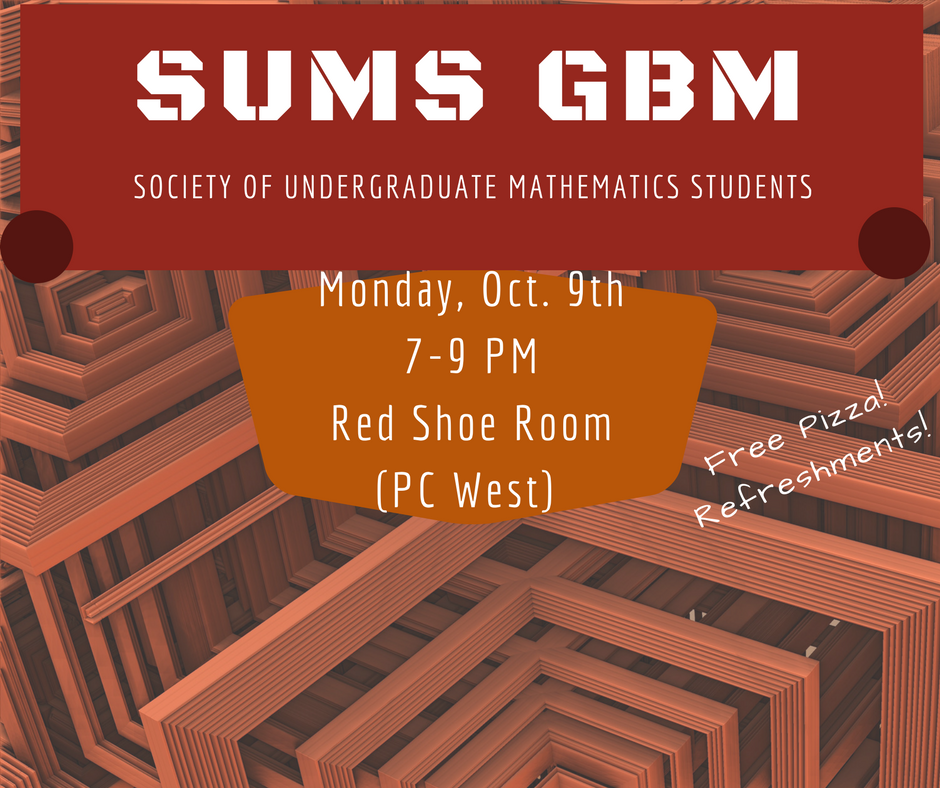
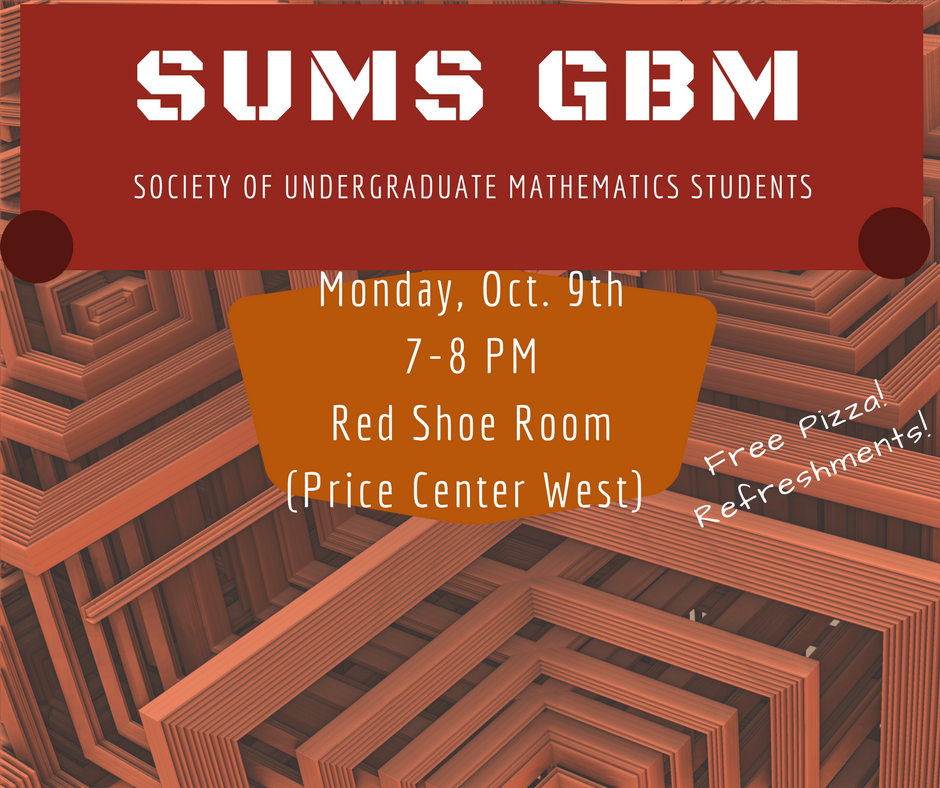
fixed GBM time, added mailing list announcement, deleted old announcements (need to figure out archive for them

Changed region(s): [[0.3085, 0.5787, 0.7096, 0.6701], [0.4628, 0.4264, 0.4936, 0.4873]]

diff --git a/index.html b/index.html
@@ -24,19 +24,9 @@ body {
 <script src="static/bundle.js"></script>
 <h2> Announcements </h2>
 <ul>
-  <li>
-    We are currently in the process of planning activities for Fall quarter.
-    We'll have the first few events of the quarter posted in a few weeks!
-  </li>
-
-  <li>
-    New officers have been elected. Details will posted on the officer page soon.
-  </li>
-
-  <li>
-    We will be reapplying to be a student organization for the 2017-2018 school year.
-    Please get in touch if you are interested in being a principal member!
-  </li>
+    <li>
+        Our mailing list is live! Don't miss out on all that's happening with SUMS! Sign up here: <a href="http://sums.ucsd.edu/-signup">http://sums.ucsd.edu/-signup</a>
+    </li>
 </ul>
 
 

diff --git a/events/fa17/GBM.md b/events/fa17/GBM.md
@@ -1,7 +1,7 @@
 ---
 title: "Fall 2017 GBM"
 start: 2017-10-09 19:00:00
-end: 2017-10-09 21:00:00
+end: 2017-10-09 20:00:00
 location: Red Shoe Room (Price Center West)
 ---
 
